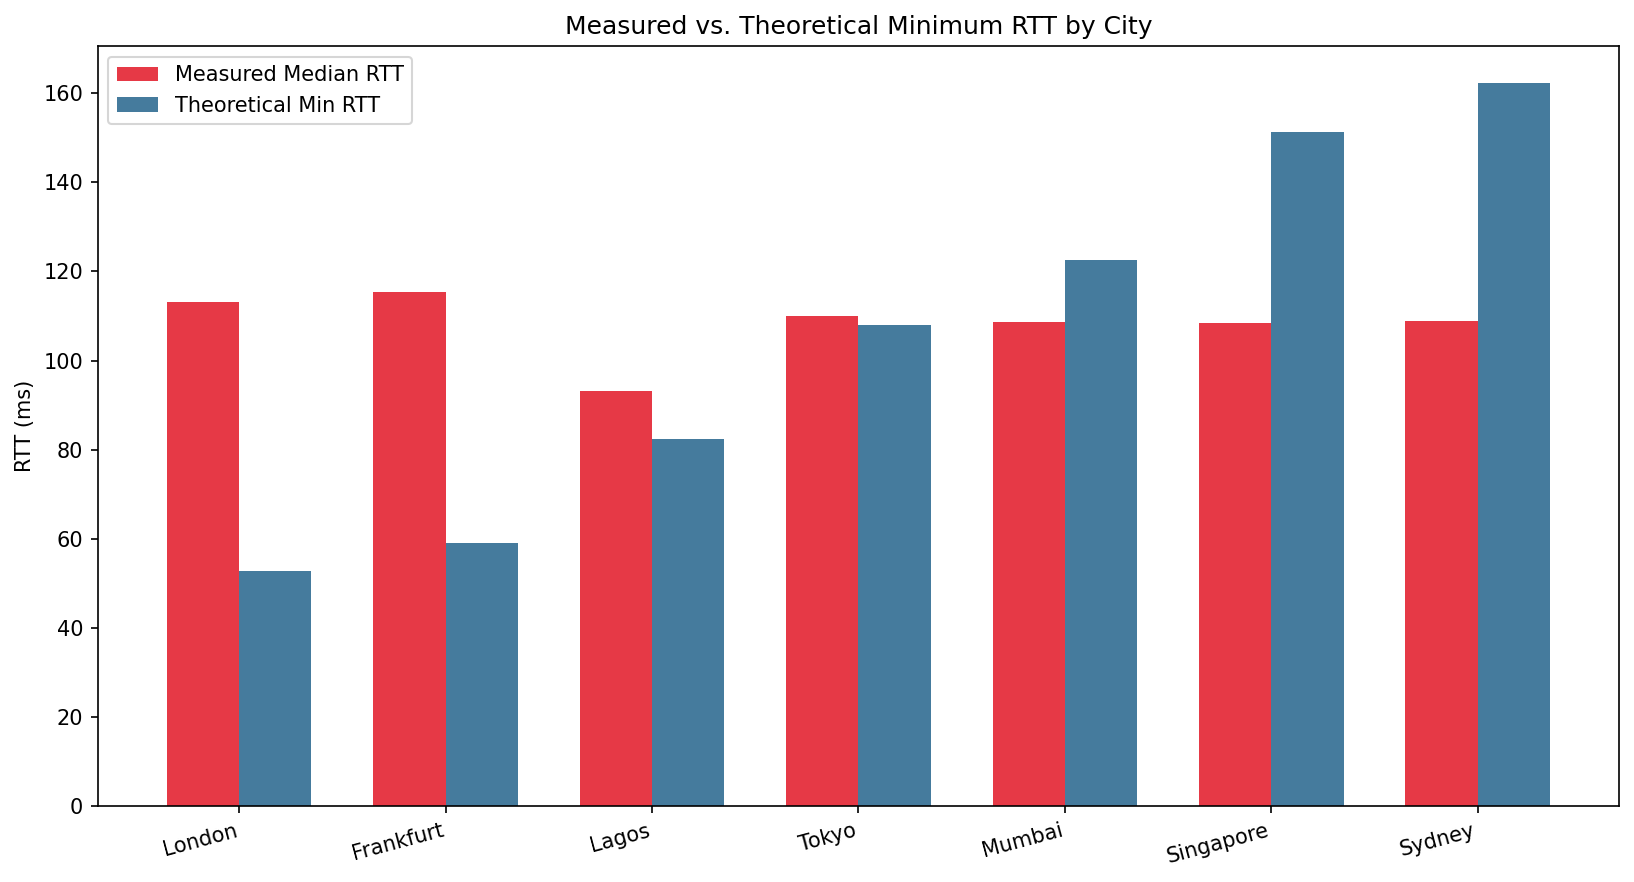
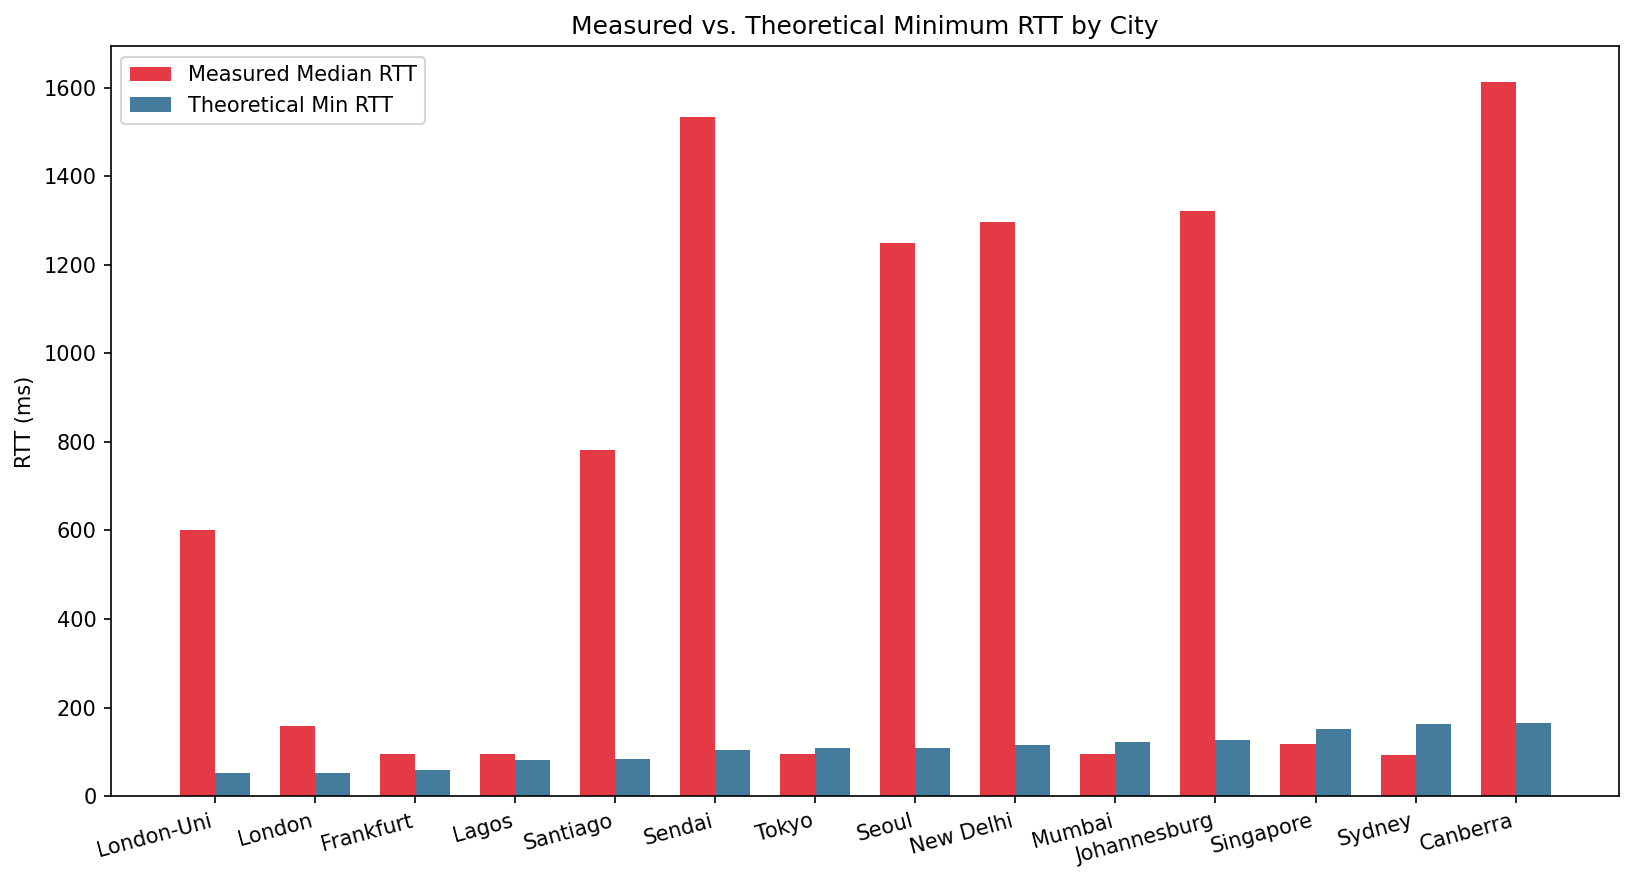
Add files via upload

diff --git a/rtt_speedoflight.py b/rtt_speedoflight.py
@@ -16,14 +16,22 @@ import urllib.request
 # ─────────────────────────────────────────────
 
 TARGETS = {
-    "Tokyo":        {"url": "http://www.google.co.jp",   "coords": (35.6762,  139.6503), "continent": "Asia"},
-    "São Paulo":    {"url": "http://www.google.com.br",  "coords": (-23.5505, -46.6333), "continent": "S. America"},
-    "Lagos":        {"url": "http://www.google.com.ng",  "coords": (6.5244,     3.3792), "continent": "Africa"},
-    "Frankfurt":    {"url": "http://www.google.de",      "coords": (50.1109,    8.6821), "continent": "Europe"},
-    "Sydney":       {"url": "http://www.google.com.au",  "coords": (-33.8688, 151.2093), "continent": "Oceania"},
-    "Mumbai":       {"url": "http://www.google.co.in",   "coords": (19.0760,   72.8777), "continent": "Asia"},
-    "London":       {"url": "http://www.google.co.uk",   "coords": (51.5074,   -0.1278), "continent": "Europe"},
-    "Singapore":    {"url": "http://www.google.com.sg",  "coords": (1.3521,   103.8198), "continent": "Asia"},
+    "Tokyo":        {"url": "http://www.google.co.jp",    "coords": (35.6762, 139.6503),  "continent": "Asia"},
+    "São Paulo":    {"url": "http://www.google.com.br",   "coords": (-23.5505, -46.6333), "continent": "S. America"},
+    "Lagos":        {"url": "http://www.google.com.ng",   "coords": (6.5244, 3.3792),     "continent": "Africa"},
+    "Frankfurt":    {"url": "http://www.google.de",       "coords": (50.1109, 8.6821),    "continent": "Europe"},
+    "Sydney":       {"url": "http://www.google.com.au",   "coords": (-33.8688, 151.2093), "continent": "Oceania"},
+    "Mumbai":       {"url": "http://www.google.co.in",    "coords": (19.0760, 72.8777),   "continent": "Asia"},
+    "London":       {"url": "http://www.google.co.uk",    "coords": (51.5074, -0.1278),   "continent": "Europe"},
+    "Singapore":    {"url": "http://www.google.com.sg",   "coords": (1.3521, 103.8198),   "continent": "Asia"},
+    "Sendai":       {"url": "http://www.tohoku.ac.jp",    "coords": (38.2682, 140.8694),  "continent": "Asia"},
+    "Seoul":        {"url": "http://www.snu.ac.kr",       "coords": (37.4602, 126.9522),  "continent": "Asia"},
+    "New Delhi":    {"url": "http://www.iitd.ac.in",      "coords": (28.7041, 77.1025),   "continent": "Asia"},
+    "Santiago":     {"url": "http://www.uchile.cl",       "coords": (-33.4489, -70.6693), "continent": "S. America"},
+    "Johannesburg": {"url": "http://www.wits.ac.za",      "coords": (-26.2041, 28.0473),  "continent": "Africa"},
+    "Berlin":       {"url": "http://www.fu-berlin.de",    "coords": (52.5200, 13.4050),   "continent": "Europe"},
+    "London-Uni":   {"url": "http://www.imperial.ac.uk",  "coords": (51.4988, -0.1749),   "continent": "Europe"},
+    "Canberra":     {"url": "http://www.anu.edu.au",      "coords": (-35.2809, 149.1300), "continent": "Oceania"},
 }
 
 PROBES           = 15

diff --git a/analysis.md b/analysis.md
@@ -1,35 +1,38 @@
 # RTT Analysis
 
-## Q1  Highest Inefficiency Ratio
-Among the cities that were reachable, Lagos had the highest inefficiency 
-ratio at 1.21, meaning my measured RTT (99.7ms) was 21% higher than the 
-theoretical minimum (82.4ms). London and Frankfurt also showed high 
-inefficiency ratios of 2.04 and 1.85 respectively, which makes sense 
-since they are relatively close to Boston but still showed about 110ms RTTs.
-Looking at submarinecablemap.com, Lagos is served by cables like ACE and
-MainOne, but these connect Africa to Europe rather than directly to North
-America. This means my packet from Boston to Lagos likely routed through
-a European hub first, adding extra distance and explaining the higher
-inefficiency compared to cities like Tokyo or Singapore. 
-Sao Paulo was completely unreachable during my measurement, returning
-100% packet loss across aall the probes
+## Q1 Highest Inefficiency Ratio
+Sendai, Japan had the highest inefficiency ratio at 14.63x, with a 
+measured RTT of 1534.2ms against a theoretical minimum of 104.9ms.
+Seoul (11.41x), London-Uni (11.43x), New Delhi (11.31x), and 
+Johannesburg (10.45x) were also flagged as high inefficiency (ratio > 3.0)
 
-## Q2  Closest to Theoretical Minimum
-Tokyo, Mumbai, Singapore, and Sydney all showed inefficiency ratios 
-below 1.0 (0.87, 0.76, 0.67, and 0.68 respectively), which is physically 
-impossible, you cannot have a measured RTT lower than the speed-of-light 
-minimum. I think this happened because Google uses a globally distributed CDN 
-(Content Delivery Network). When I sent a request to google.co.jp, Google 
-did not route my packet all the way to Tokyo instead it was answered by 
-a nearby edge server, likely in or around Boston. 
+The university servers show dramatically higher ratios than the Google
+targets because Google uses CDN edge servers near Boston, while university
+servers actually route packets to their physical location. Sendai's high
+ratio likely reflects congestion, multiple routing hops across the Pasific,
+and the overhead of crossing several autonomous systems between the US
+and Japan.
+
+## Q2 Closest to Theoretical Minimum
+frankfurt had the most realistic ratio at 1.61x, meaning its measured
+RTT (95.0ms) was only 61% above the theoretical minimum (59.0ms). Lagos
+was also reasonable at 1.15x. These results make sense both are 
+relatively well-connected to North America through major transatlantic
+cables and internet exchange points
+
+The Google targets (Tokyo, Mumbai, Singapore, Sydney) showed ratios
+below 1.0, which is physically impossible. This happened because Google's
+CDN answered requests from a nearby Boston-area edge server rather than
+routing all the way to those countries. This is actually evidence of
+excellent infrastructure, Google's network is so optimized that geography
+becomes irrelevant for its own properties.
 
 ## Q3 Why Lagos Routes Through Europe
 Africa historically lacked direct submarine cable links to North America.
-Most cables were funded and built by European telecom companies, connecting
-African coastal cities to Europe first. As a result, traffic between the
-US and Africa still transits through European internet exchange points,
-adding thousands of kilometers of unnecessary distance. This explains why
-Lagos (8,243 km from Boston) had a higher inefficiency ratio than Tokyo
-(10,794 km away), the routing path for Lagos is less direct despite the
-shorter physical distance. New cables like Equiano and 2Africa are being
-laid to connect Africa more directly, which should improve this over time.
+Most cables were funded by European telecom companies, connecting African
+cities to Europe first. As a result, traffic between the US and Africa
+transits through Euorpean internet exchange points, adding thousands of
+kilometers of unnecessary distance. This is visible in my results
+Lagos (8,243 km away) had a ratio of 1.15x, but Johannesburg (12,646 km)
+had a ratio of 10.45x, suggesting South Africa's routing is even more
+indirect. New cables like Equiano an
